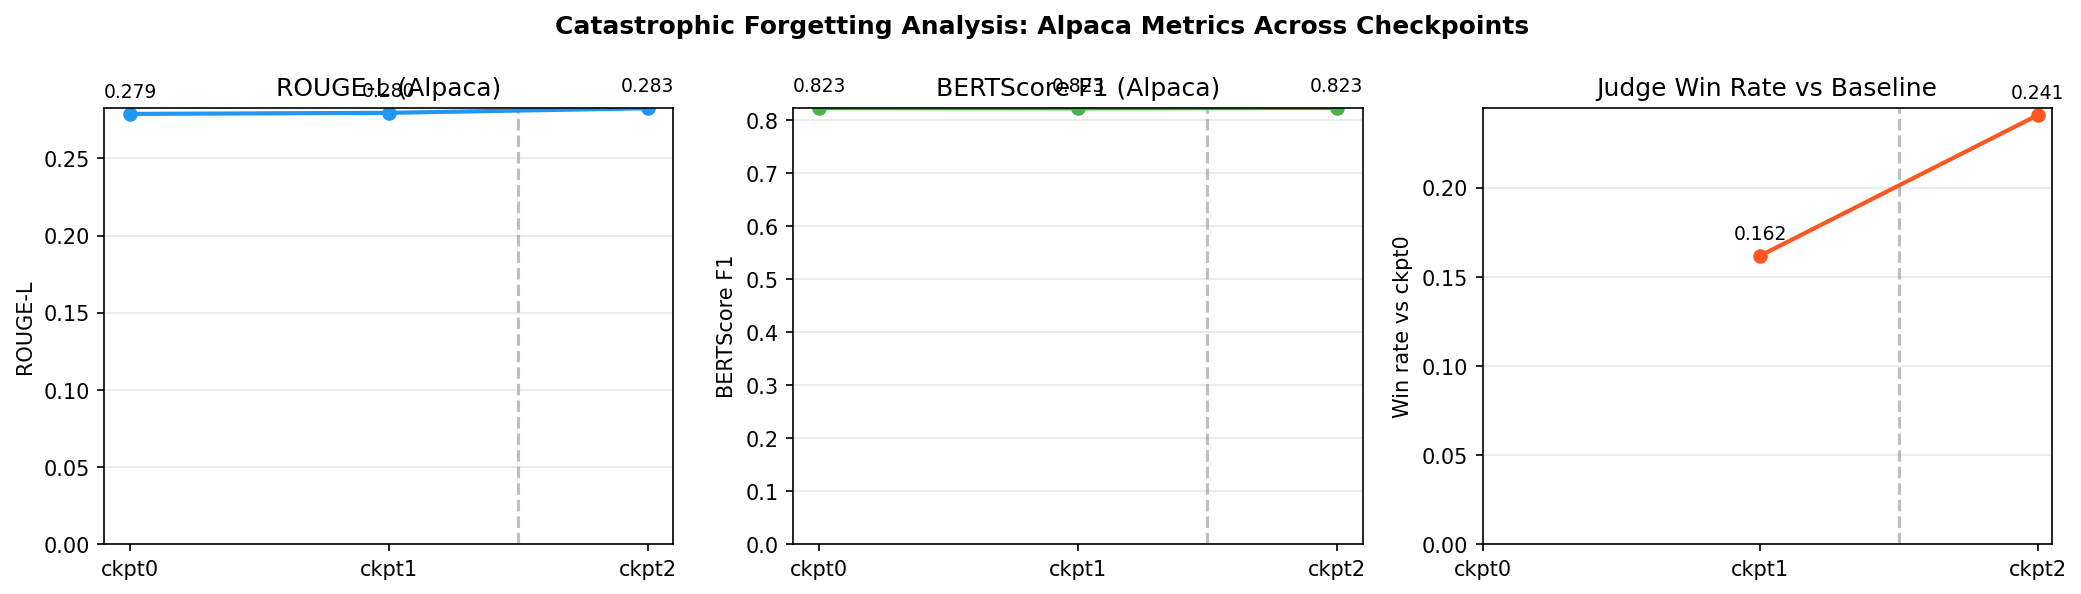
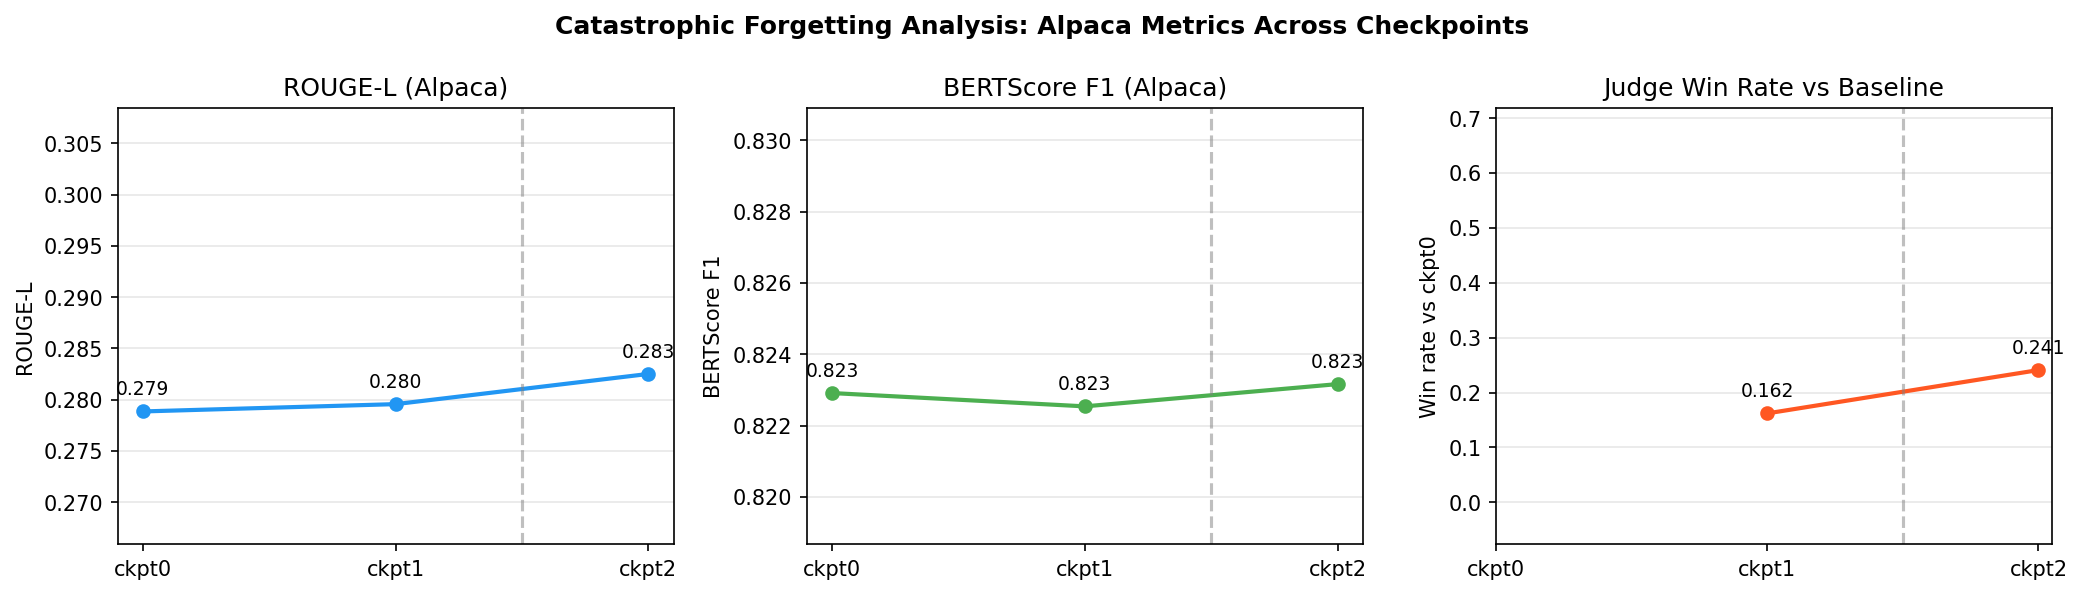
Improve figure quality: tight y-axis scaling + Stage 2 loss to step 124
- forgetting_curve.png: y-axis now tight around data range so ROUGE-L and BERTScore
  changes are visible (previously flat line at 0 baseline)
- loss_curves.png: Stage 2 now shows step 124 (final) instead of ending at step 100
- aggregate_results.py: dynamic y-axis margin instead of hardcoded bottom=0

diff --git a/src/evaluation/aggregate_results.py b/src/evaluation/aggregate_results.py
@@ -168,11 +168,13 @@ def plot_forgetting_curve(checkpoints: list[int], results_dir: str,
             for xi, v in zip(xs, vs):
                 ax.annotate(f"{v:.3f}", (xi, v), textcoords="offset points",
                             xytext=(0, 8), ha="center", fontsize=9)
+            # Use tight y-axis so small differences are visible
+            margin = (max(vs) - min(vs)) * 3 + 0.002
+            ax.set_ylim(min(vs) - margin, max(vs) + margin * 2)
         ax.set_xticks(x)
         ax.set_xticklabels(ckpt_labels)
         ax.set_ylabel(ylabel)
         ax.set_title(title)
-        ax.set_ylim(bottom=0)
         ax.grid(axis="y", alpha=0.3)
 
     plot_metric(axes[0], rl_vals,  "ROUGE-L",      "ROUGE-L (Alpaca)",         "#2196F3")